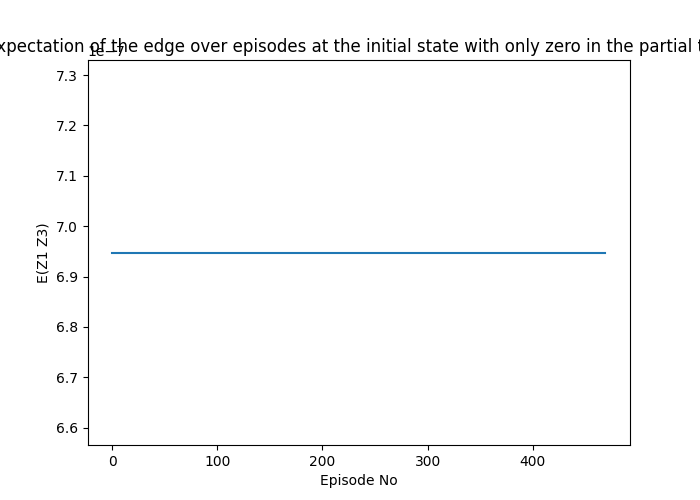
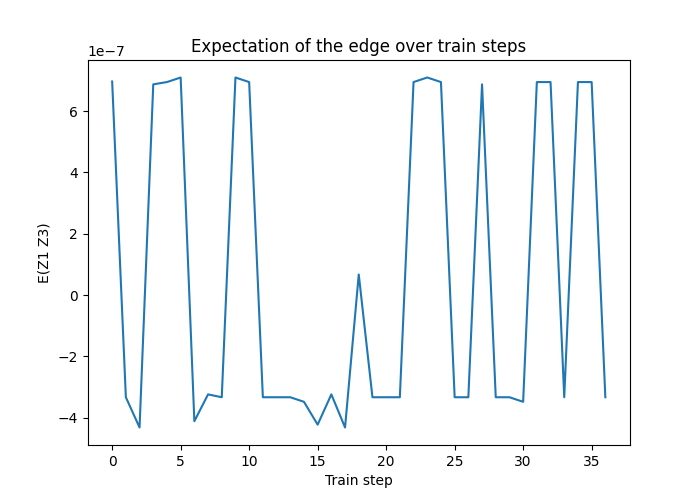
eqc - graphed expectation value for each edge

diff --git a/src/model/tsp_q_learning.py b/src/model/tsp_q_learning.py
@@ -473,19 +473,19 @@ class QLearningTsp(QLearning):
                 else:
                     q_val = -10000 # node already selected (large negative reward)
                 q_vals.append(q_val)
-            print("q_vals = ", q_vals, len(q_vals))
+            # print("q_vals = ", q_vals, len(q_vals))
             batch_q_vals.append(q_vals)
-        print("batch_q_vals shape =",  len(batch_q_vals))
-        print("*"*20)
+        # print("batch_q_vals shape =",  len(batch_q_vals))
+        # print("*"*20)
         # input()
         return np.asarray(batch_q_vals)
 
     def get_action(self, state_tensor, available_nodes, partial_tour, edge_weights):
         print("get_action!")
-        print("state_tensor = ", state_tensor)
+        # print("state_tensor = ", state_tensor)
         #epsilon greedy
         if np.random.uniform() < self.epsilon:
-            print("random!")
+            # print("random!")
             action = choice(available_nodes) # select random action
         else:
             print("selecting max qval")
@@ -531,8 +531,11 @@ class QLearningTsp(QLearning):
 
     def train_step(self):
         training_batch = choices(self.memory, k=self.batch_size)
+        # print("Original batch = ", training_batch)
         training_batch = self.interaction(*zip(*training_batch))
-
+        # print("Batch after = ", training_batch)
+        # print("*"*20)
+        # input()
         states = [x for x in training_batch.state]
         rewards = np.asarray([x for x in training_batch.reward], dtype=np.float32)
         next_states = [x for x in training_batch.next_state]
@@ -554,39 +557,46 @@ class QLearningTsp(QLearning):
         # rewards is not considered.
         target_q_values = rewards + (
                 self.gamma * tf.reduce_max(future_rewards, axis=1) * (1.0 - done))
-        print("training step!")
-        print("self.model.trainable_Variables = ", self.model.trainable_variables)
+        # print("target_Q_va")
         # record operations for automatic differentiation
         # which allows calculations of gradients with respect to the model's
         # tunable variables
         with tf.GradientTape() as tape:
             tape.watch(self.model.trainable_variables)
             exp_values = self.model([tfq.convert_to_tensor([cirq.Circuit()]*self.batch_size), states])
-            
             # print("states = ", states)
             # print("exp values = ", exp_values[0], exp_values.shape)
             exp_val_masks = self.get_masks_for_actions(edge_weights, partial_tours)
-            print("exp val masks = ", exp_val_masks, exp_val_masks.shape)
+            tmp = tf.multiply(exp_values, exp_val_masks)
+            # print("exp val masks = ", exp_val_masks, exp_val_masks.shape)
+            print("masked expectations = ", tmp)
+            input()
             q_values_masked = tf.reduce_sum(tf.multiply(exp_values, exp_val_masks), axis=1)
-            print("q_values_masked = ", q_values_masked, q_values_masked.shape)
+            print("q_values_shape ", q_values_masked.shape)
             
             loss = self.loss_fun(target_q_values, q_values_masked)
-            print("loss = ", loss)
+            k = 0
+            for i in range(self.n_vars-1):
+                for j in range(i+1, self.n_vars):
+                    self.exp_vals[i, j].append(tf.reduce_sum(exp_values[:, k]).numpy())
+                    self.q_vals[i, j].append(tf.reduce_sum(tmp[:, k]).numpy())
+                    k+=1
+            # print("loss = ", loss)
             
-            print("one example:")
-            idx = 0
-            print("idx = ", idx)
-            print("states[idx] = ", states[idx])
-            print("exp_values[idx] = ", exp_values[idx])
-            print("exp_val_masks[idx] = ", exp_val_masks[idx])
-            print("q_values_masked[idx] = ", q_values_masked[idx])
-            idx = 1
-            print("*"*10)
-            print("idx = ", idx)
-            print("states[idx] = ", states[idx])
-            print("exp_values[idx] = ", exp_values[idx])
-            print("exp_val_masks[idx] = ", exp_val_masks[idx])
-            print("q_values_masked[idx] = ", q_values_masked[idx])
+            # print("one example:")
+            # idx = 0
+            # print("idx = ", idx)
+            # print("states[idx] = ", states[idx])
+            # print("exp_values[idx] = ", exp_values[idx])
+            # print("exp_val_masks[idx] = ", exp_val_masks[idx])
+            # print("q_values_masked[idx] = ", q_values_masked[idx])
+            # idx = 1
+            # print("*"*10)
+            # print("idx = ", idx)
+            # print("states[idx] = ", states[idx])
+            # print("exp_values[idx] = ", exp_values[idx])
+            # print("exp_val_masks[idx] = ", exp_val_masks[idx])
+            # print("q_values_masked[idx] = ", q_values_masked[idx])
             
         grads = tape.gradient(loss, self.model.trainable_variables)
         print("number of optimizers = ", len(self.optimizers))
@@ -612,10 +622,11 @@ class QLearningTsp(QLearning):
         self.meta['env_solved'] = False
         
         self.exp_vals = dict()
+        self.q_vals = dict()
         for i in range(self.n_vars-1):
             for j in range(i+1, self.n_vars):
                 self.exp_vals[i,j] = list()
-        self.exp_vals['x'] = list()
+                self.q_vals[i,j] = list()
         
         with open(self.data_path, 'rb') as file:
             data = pickle.load(file)
@@ -634,8 +645,8 @@ class QLearningTsp(QLearning):
         running_avg = 0
 
         for episode in range(self.episodes):
-            # instance_number = random.randint(0, num_instances-1)
-            instance_number = 0
+            instance_number = random.randint(0, num_instances-1)
+            # instance_number = 0
             tsp_graph_nodes = x_train[instance_number]
             optimal_tour_length = compute_tour_length(
                 tsp_graph_nodes, # if start node != end 
@@ -676,13 +687,13 @@ class QLearningTsp(QLearning):
             exp = self.model([tfq.convert_to_tensor([cirq.Circuit()]), state_tensor])
             exp = exp.numpy()
             
-            assert exp.shape == (1, 10), f"wrong = exp.shape is {exp.shape}"
-            k = 0
-            for i in range(self.n_vars - 1):
-                for j in range(i+1, self.n_vars):
-                    self.exp_vals[i, j].append(exp[0,k])
-                    k += 1
-            self.exp_vals['x'].append(episode)
+            # assert exp.shape == (1, 10), f"wrong = exp.shape is {exp.shape}"
+            # k = 0
+            # for i in range(self.n_vars - 1):
+            #     for j in range(i+1, self.n_vars):
+            #         self.exp_vals[i, j].append(exp[0,k])
+            #         k += 1
+            # self.exp_vals['x'].append(episode)
             # Constructs the tour
             for i in range(self.n_vars):
                 prev_tour = copy.deepcopy(tour)
@@ -771,7 +782,7 @@ class QLearningTsp(QLearning):
             # maintain a running avg of the 100 most recent episodes
             running_avgs.append(running_avg)
             
-            if len(ratio_history) >= 100 and running_avg <= 1.02:
+            if len(ratio_history) >= 100 and running_avg <= 1.25:
                 print(f"Environment solved in {episode+1} episodes!")
                 self.meta['env_solved'] = True
                 if self.save:
@@ -786,40 +797,88 @@ class QLearningTsp(QLearning):
             plt.title("Running average over past 100 episodes")
             plt.show()
             
+            xs = [i for i in range(len(self.exp_vals[(0,1)]))]
             for key in self.exp_vals.keys():
-                if key == 'x': continue
+                if key[0] != 1 and key[1] != 1: continue
                 plt.figure(figsize = (7,5))
-                plt.xlabel('Episode No')
+                plt.xlabel('Train step')
                 plt.ylabel(f'E(Z{key[0]} Z{key[1]})')
-                plt.title('Expectation of the edge over episodes at the initial state with only zero in the partial tour')
-                plt.plot(self.exp_vals['x'], self.exp_vals[key])
-                plt.savefig(f"new_figs/exps/exp-{key}.png")                
+                plt.title(f'Expectation of the edge {key} over train steps')
+                plt.plot(xs, self.exp_vals[key])
+                plt.plot(xs, [0 for _ in xs], alpha = 0.5)
+                plt.savefig(f"new_figs/exps/exp-{key}-tsp10.png")
+                
+            for key in self.exp_vals.keys():
+                if key[0] != 9 and key[1] != 9: continue
+                plt.figure(figsize = (7,5))
+                plt.xlabel('Train step')
+                plt.ylabel(f'E(Z{key[0]} Z{key[1]})')
+                plt.title(f'Expectation of the edge {key} over train steps')
+                plt.plot(xs, self.exp_vals[key])
+                plt.plot(xs, [0 for _ in xs], alpha = 0.5)
+                plt.savefig(f"new_figs/exps/exp-{key}-tsp10.png")                
+                
 
             print(self.exp_vals)
             for key in self.exp_vals.keys():
                 print(key, len(self.exp_vals[key]))
-            input()
             plt.figure(figsize = (7,5))
-            for key in [(0,1), (0,2), (0,3), (0,4)]:
-                plt.plot(self.exp_vals['x'], self.exp_vals[key], label = f'{key}' )
-            plt.xlabel('Episode No')
+            for key in [(0,1), (0,2), (0,3), (0,4), (0,5), (0,6), (0,7), (0,8), (0,9)]:
+                plt.plot(xs, self.exp_vals[key], label = f'{key}' )
+            plt.xlabel('Train step')
             plt.ylabel(f'Expectation')
             plt.title('Expectation of the edge over episodes at the initial state with only zero in the partial tour')
             plt.legend()
-            plt.savefig(f"new_figs/exps/comparing_main_edges.png") 
+            plt.savefig(f"new_figs/exps/comparing_edges_from_zero_tsp10.png") 
+            
+            for key in self.q_vals.keys():
+                if key[0] != 1 and key[1] != 1: continue
+                plt.figure(figsize = (7,5))
+                plt.xlabel('Train step')
+                plt.ylabel('Q value masked')
+                plt.title('Qvalue of edge {key} over train steps')
+                plt.plot(xs, self.q_vals[key])
+                plt.savefig(f'new_figs/qvals/qval-{key}-tsp10.png')
+            
+            for key in self.q_vals.keys():
+                if key[0] != 9 and key[1] != 9: continue
+                plt.figure(figsize = (7,5))
+                plt.xlabel('Train step')
+                plt.ylabel('Q value masked')
+                plt.title('Qvalue of edge {key} over train steps')
+                plt.plot(xs, self.q_vals[key])
+                plt.plot(xs, [0 for x in xs], alpha = 0.5)
+                plt.savefig(f'new_figs/qvals/qval-{key}-tsp10.png')
+            
+            plt.figure(figsize=(7,5))
+            for key in [(0,1), (0,2), (0,3), (0,4), (0,5), (0,6), (0,7), (0,8), (0,9)]:
+                plt.plot(xs, self.q_vals[key], label = f'{key}')
+            plt.xlabel('Train step')
+            plt.ylabel(f'Masked q value')
+            plt.legend()
+            plt.savefig(f"new_figs/qvals/comparing_edges_from_tsp10.png") 
             
             plt.figure(figsize=(7,5))
             instance = x_train[0]
             plt.scatter([x[0] for x in instance], [x[1] for x in instance])
-            tour = [int(x-1) for x in y_train[0]]
-            for i in range(len(tour) - 1):
-                plt.plot([instance[tour[i]][0], instance[tour[i+1]][0]], [instance[tour[i]][1], instance[tour[i+1]][1]], alpha = 0.5)            
+            ax = plt.gca()
+            for i in range(len(instance)):
+                ax.annotate(i, instance[i])
+            opt_tour = [int(x-1) for x in y_train[0]]
+            n = len(opt_tour)
+            for i in range(len(opt_tour)):
+                plt.plot([instance[opt_tour[i]][0], instance[opt_tour[(i+1)%n]][0]], [instance[opt_tour[i]][1], instance[opt_tour[(i+1)%n]][1]], alpha = 0.5, c = 'green')
+                
+            best_tour = self.meta['best_tour']
+            for i in range(len(best_tour) - 1):
+                plt.plot([instance[best_tour[i]][0], instance[best_tour[i+1]][0]], [instance[best_tour[i]][1], instance[best_tour[i+1]][1]], alpha = 0.7, c= 'blue')        
+            
             plt.legend()
             plt.xlim(0, 1)
             plt.xlabel("x")
             plt.ylim(0, 1)
             plt.ylabel('y')
-            plt.savefig(f"new_figs/exps/instance0.png")
+            plt.savefig(f"new_figs/exps/instance0_tsp10.png")
             
             print("Best tour = ", self.meta['best_tour'])
             print("instance = ", x_train[0])

diff --git a/src/model/layers.py b/src/model/layers.py
@@ -85,6 +85,7 @@ class EquivariantLayer(tf.keras.layers.Layer):
             params,
             name="equivariant_layer"):
         super(EquivariantLayer, self).__init__(name=name)
+        print("params = ", params)
         self.num_input_params = num_input_params * circuit_depth
         self.num_params = 2 * circuit_depth
         self.circuit_depth = circuit_depth
@@ -102,6 +103,8 @@ class EquivariantLayer(tf.keras.layers.Layer):
 
         alphabetical_params = sorted(params)
         self.indices = tf.constant([params.index(a) for a in alphabetical_params])
+        print(self.indices)
+        input()
 
     def call(self, inputs):
         repeated_params = tf.repeat(self.params, repeats=self.param_repeats)

diff --git a/run_eqc.py b/run_eqc.py
@@ -9,7 +9,7 @@ from config import BASE_PATH
 
 
 hyperparams = {
-    'n_vars': 5, # length of tour
+    'n_vars': 10, # length of tour
     'episodes': 5000, # total episodes
     'batch_size': 10, # DQN batch size
     'epsilon': 1, # epsilon greedy policy? 
@@ -24,7 +24,7 @@ hyperparams = {
     'memory_length': 10000,
     'num_instances': 100,
     'circuit_type': CircuitType.EQC,
-    'data_path': BASE_PATH + 'tsp/tsp_5_train/tsp_5_reduced_train.pickle',
+    'data_path': BASE_PATH + 'tsp/tsp_10_train/tsp_10_reduced_train.pickle',
     'repetitions': 1,
     'save': False,
     'test': True

diff --git a/src/model/circuits.py b/src/model/circuits.py
@@ -7,6 +7,11 @@ def graph_encoding_circuit(edges, qubits, n_layers, data_params):
     Creates a quantum circuit that encodes graph data into the 
     quantum state of a system. 
     '''
+    print("graph encoding circuit!")
+    print("edges = ", edges)
+    print("qubits = ", qubits)
+    print("data_params = ", data_params)
+    input()
     circuit = cirq.Circuit()
     circuit += cirq.H.on_each(qubits)
 
